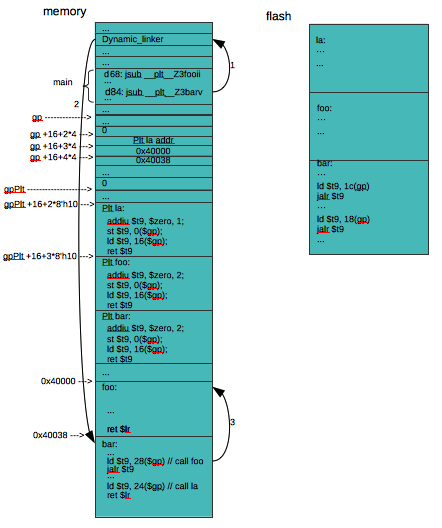
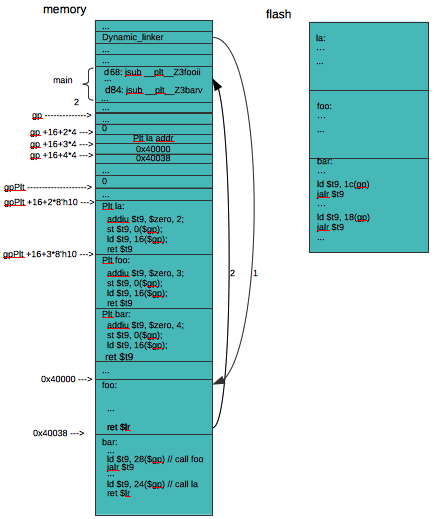
Dynamic linker in lld.rst

diff --git a/docs/BackendTutorial/source/lld.rst b/docs/BackendTutorial/source/lld.rst
@@ -1179,8 +1179,8 @@ as follows.
 Dynamic linker 
 ---------------
 
-Except the lld code with #ifdef DLINKER. The following code in Verilog exists 
-to support dynamic linker.
+In addition to the lld code with #ifdef DLINKER. The following code in Verilog 
+exists to support dynamic linker.
 
 .. rubric:: lbdex/cpu0_verilog/dynlinker.v
 .. literalinclude:: ../lbdex/cpu0_verilog/dynlinker.v
@@ -1298,7 +1298,7 @@ purpose (since we coding it and take time to debug). After skip these debug
 code, the dynamic_linker.cpp is short and not difficult to read.
 
 The run result is under expectation. The main() call foo() function first.
-Function foo() is loaded by dynamic linker (dynamic_linker.cpp) from memory
+Function foo() is loaded by dynamic linker (dynamic_linker.cpp) from flash
 address FLASHADDR (defined in dynamic_linker.h) to memory.
 The flashio.v implement the simulation read from flash address.
 After loaded foo() body from flash, dynamic_linker.cpp jump to this loaded
@@ -1513,18 +1513,19 @@ $zero, 4($gp); st	$t9, 0($gp); ld	$t9, 16($gp); ret	$t9" as follows,
 
 :num:`Figure #lld-f7` is the Control flow transfer from call foo() of main() to 
 dynamic linker. After ch_dynamiclinker.cpp call foo() first time, it jump to 
-__plt_Z3fooii plt entry. Since __plt_Z3fooii is the 3rd plt entry,
+__plt_Z3fooii plt entry. In __plt_Z3fooii, "ld $t9, 1c($gp)" and "ret $t9" will 
+jump to "Plt foo:". Since foo is the 3rd plt entry, in "Plt foo:" 
 it save 3 to 0($gp) memory address then jump to PLT0. The PLT0 purpose is to
 save $lr, $fp, $sp and jump to dynamic linker. 
 Now, the control flow transfer to dynamic linker.
 Dynamic linker will get the loaded function name and function offset of shared 
-library by the value of 0($gp) which is 3 set in __plt_Z3fooii. The value 
-3 tell dynamic linker load foo() (3rd string in .dynstr) from offset of shared
-library, 0x3c (3rd value of Function offset area in Figure).
+library by the value of 0($gp) which is 3 set in "Plt foo:". The value 
+3 tells dynamic linker loading foo() (3rd string in .dynstr) from offset of 
+shared library, 0x3c (3rd value of Function offset area in Figure).
 Now, dynamic linker can load foo() function from flash to memory, set the 
-address gp+3*4 to 0x40000 where the address 0x40000 is the foo() function
+address gp+3*4 to 0x40000 where the address 0x40000 is the foo() function is 
 loaded to memory and prepare jump to the foo() memory address. 
-Remind we say the prepare jump to foo(). It because
+Remind we say the prepare jump to foo(). Because
 before jump to foo(), dynamic linker need to restore the $lr, $fp, $sp to the 
 value of just before caller calling foo() (they are saved in 4, 8, 12 of $gp 
 offset in PLT0, so them can be restored from that address).
@@ -1539,22 +1540,31 @@ offset in PLT0, so them can be restored from that address).
 As :num:`Figure #lld-f8` depicted, control flow from dynamic linker to foo() and
 back to caller main() when it meets the instruction "ret $lr" in foo().
 
-Now the program run at the next instruction of call foo() in main(). When it run 
+.. _lld-f9: 
+.. figure:: ../Fig/lld/9.png
+  :scale: 80 %
+  :align: center
+
+  Transfer from dynamic linker to foo() and back to main()
+  
+Now the program run at the next instruction of call foo() in main() as 
+:num:`Figure #lld-f9` depicted. When it run 
 to address 0xd8 "jsub __plt__Z3barv", the control flow will transfer from 
-__plt_Z3barv through PLT0 to dynamic linker then load and run bar() from flash 
+__plt_Z3barv through "Plt bar:" and PLT0 to dynamic linker then load and run 
+bar() from flash 
 to memory just like the calling __plt__Z3fooii. 
 The difference is bar() will call foo() first and call la() next. 
 The call foo() in bar() will jump to foo() directly as 
-:num:`Figure #lld-f8` because the content of gp+28 is the address of 0x40000 which
+:num:`Figure #lld-f9` because the content of gp+28 is the address of 0x40000 which
 set in dynamic linker when the foo() function is called first time. 
 
-Finally when bar() call la() function it will jump to __plt_Z3laii since the 
-content of $gp+24 point to __plt_Z3laii. 
-The __plt_Z3laii code will call dynamic linker
-to load la() function, run la() and back to bar() as :num:`Figure #lld-f9`.
+Finally when bar() call la() function it will jump to "Plt la:" since the 
+content of $gp+24 point to "Plt la:". 
+The "Plt la:" code will call dynamic linker
+to load la() function, run la() and back to bar() as :num:`Figure #lld-f10`.
 
-.. _lld-f9: 
-.. figure:: ../Fig/lld/9.png
+.. _lld-f10: 
+.. figure:: ../Fig/lld/10.png
   :scale: 80 %
   :align: center
 
